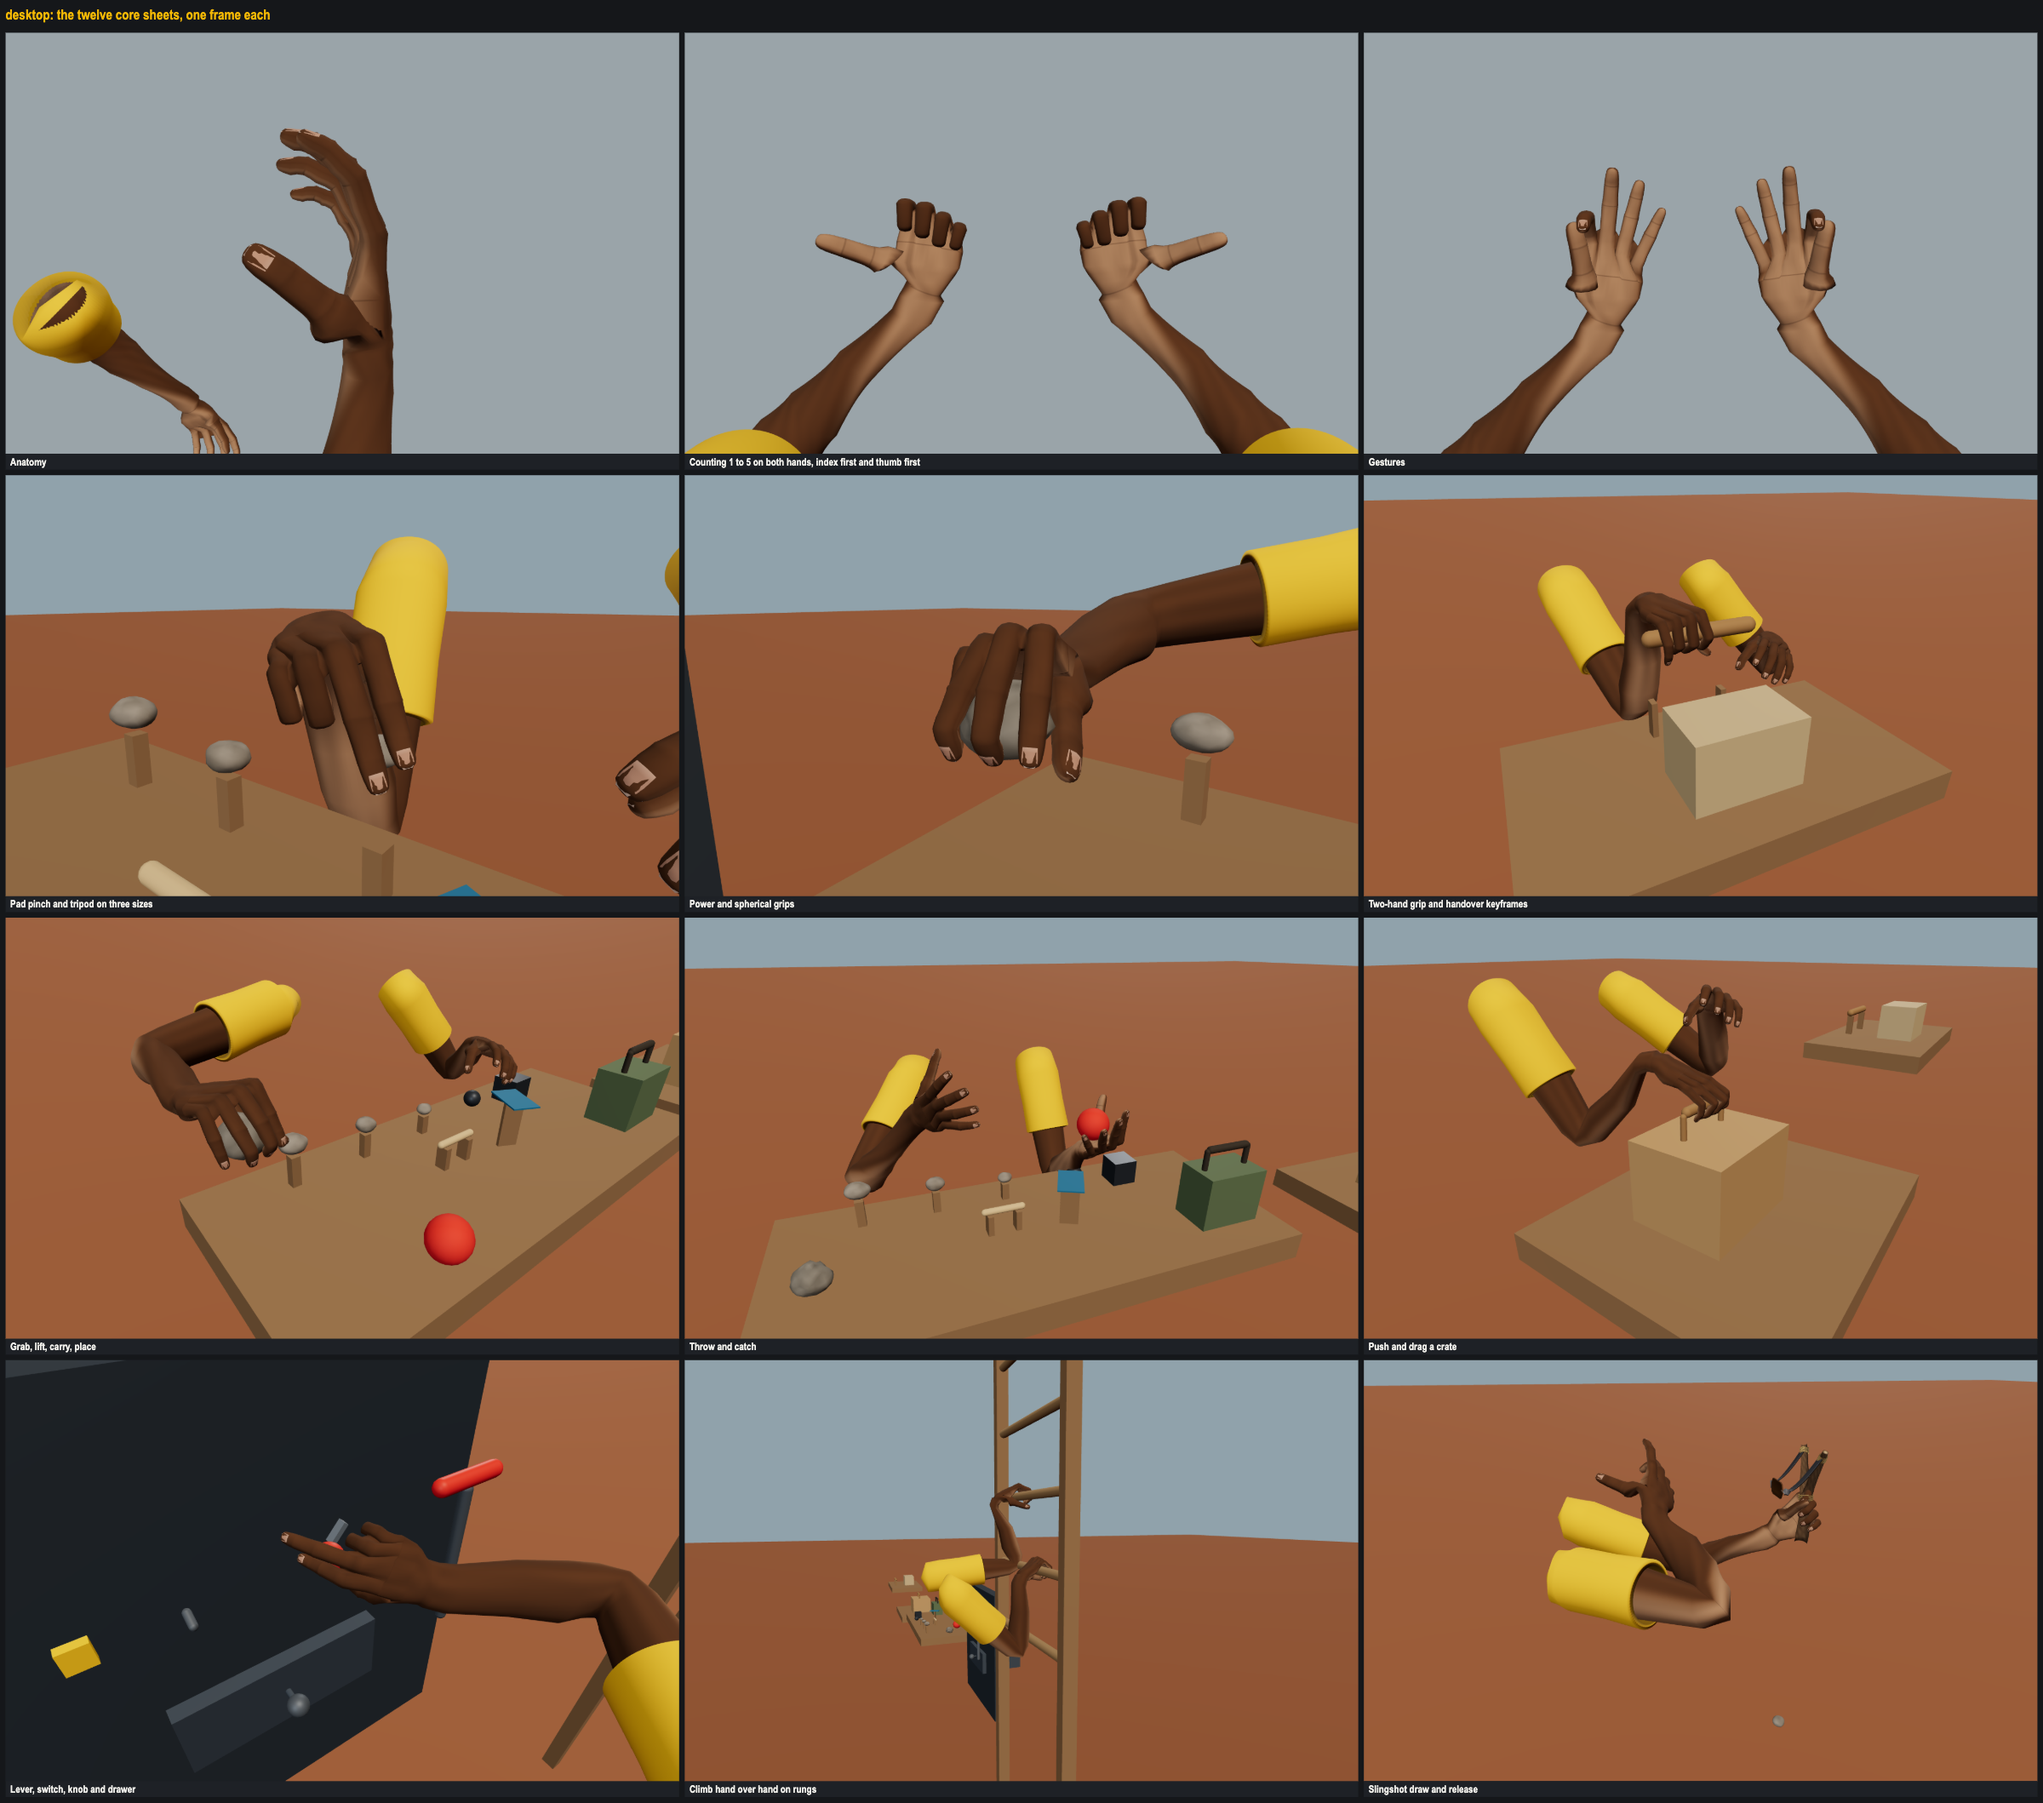
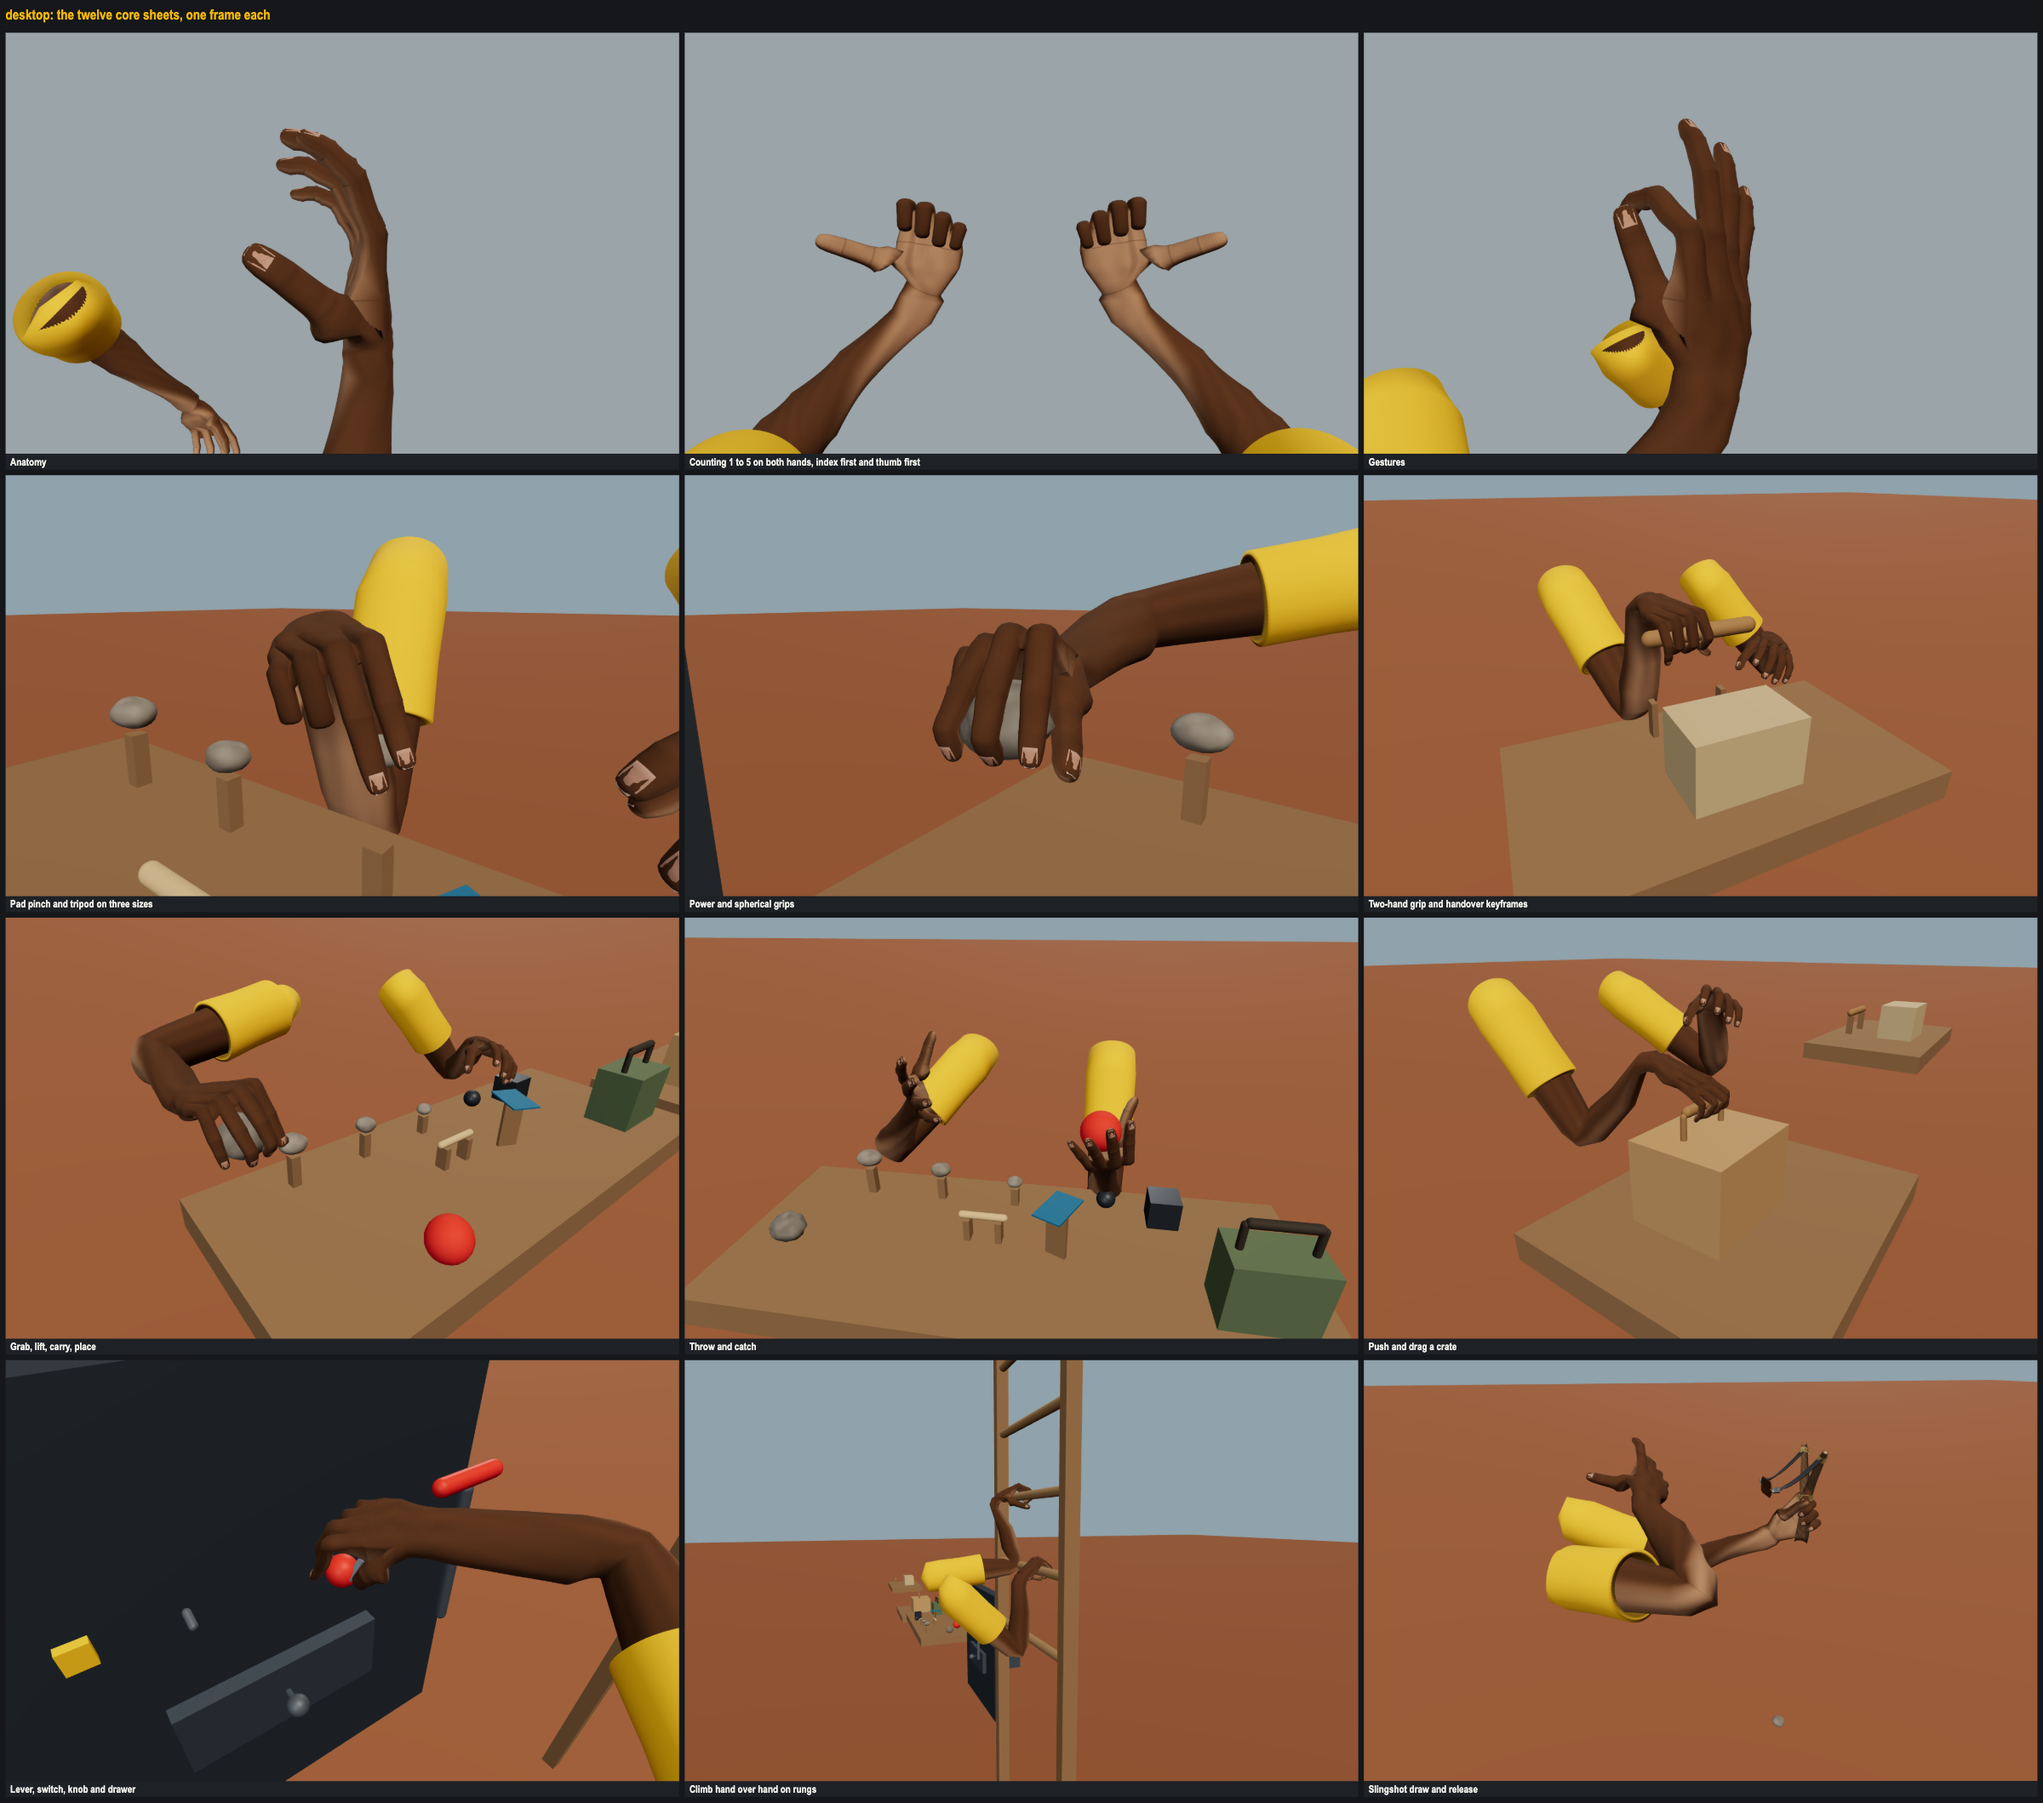
Fix the blockers from the independent core sheet review
- 03 gestures, ok: the ring hid behind the fingers from the front camera,
  so OK read as a pinch; that frame is a right hand at three-quarter.
- 08 throw and catch 2.85 to 4.40 s: the caught ball was set down between
  the iron shot and weight, and the hand read as wrapping into them. The
  catch point moves into the clear gap, the left hand holds the ball up
  after the catch instead of setting it down, and the camera looks from
  the front.
- 10 props, turnKnob 2.80 s: the tripod on a knob flush with the face
  left index and middle straight past it. The knob stands on a short stem
  so the fingers close round it.
- 12 slingshot, release 0.05 to 0.15 s: the release read as a pop; frames
  are 25 ms apart through the snap. The first person frames lined the
  drawing hand up with the fork and read as overlap; they are views from
  above showing the stretched bands and the snap back.
- docs/HANDS_MINORS.md gains the reviewer's cosmetic minors.

diff --git a/scripts/hands-gallery/sheets.js b/scripts/hands-gallery/sheets.js
@@ -31,7 +31,10 @@ export const CORE = [
   },
   {
     key: '03-gestures', title: 'Gestures: fist, open, spread, point, OK, thumbs up, V, beckon, wave',
-    frames: ['fist', 'open', 'spread', 'point', 'ok', 'thumbsUp', 'v', 'beckon', 'wave'].map((g) => hands(g, { hand: 'both', gesture: g, cam: 'front', t: ['beckon', 'wave'].includes(g) ? 0.6 : 0 })),
+    // OK from the front hides its ring behind the fingers: that one is a right hand at three-quarter.
+    frames: ['fist', 'open', 'spread', 'point', 'ok', 'thumbsUp', 'v', 'beckon', 'wave'].map((g) => (g === 'ok'
+      ? hands('ok, three-quarter', { hand: 'right', gesture: g, cam: 'three' })
+      : hands(g, { hand: 'both', gesture: g, cam: 'front', t: ['beckon', 'wave'].includes(g) ? 0.6 : 0 }))),
   },
   {
     key: '04-pinch-tripod', title: 'Pad pinch and tripod on three sizes',
@@ -59,10 +62,12 @@ export const CORE = [
   {
     key: '12-slingshot', title: 'Slingshot draw and release',
     frames: [
-      ...[0, 0.5, 1.0, 1.4].map((t) => ({ name: `draw ${t.toFixed(2)} s`, params: { scene: 'slingshot', action: 'draw', t, cam: 'orbit' } })),
-      ...[0.05, 0.15, 0.4, 1.0].map((t) => ({ name: `release ${t.toFixed(2)} s`, params: { scene: 'slingshot', action: 'release', t, cam: 'orbit' } })),
-      { name: 'full draw, first person', params: { scene: 'slingshot', action: 'fullDrawHold', t: 0.5, cam: 'fp' } },
-      { name: 'release, first person', params: { scene: 'slingshot', action: 'release', t: 0.1, cam: 'fp' } },
+      ...[0, 0.7, 1.4].map((t) => ({ name: `draw ${t.toFixed(2)} s`, params: { scene: 'slingshot', action: 'draw', t, cam: 'orbit' } })),
+      // The release is fast: frames 25 ms apart through the snap, so the strip shows it move, not jump.
+      ...[0.05, 0.075, 0.1, 0.125, 0.15, 0.4, 1.0].map((t) => ({ name: `release ${t.toFixed(3)} s`, params: { scene: 'slingshot', action: 'release', t, cam: 'orbit' } })),
+      // From above: first person lines the drawing hand up with the fork, so the draw reads as overlap there.
+      { name: 'full draw, from above', params: { scene: 'slingshot', action: 'fullDrawHold', t: 0.5, cam: 'orbit', yaw: 1.35, pitch: 1.1 } },
+      { name: 'release, from above', params: { scene: 'slingshot', action: 'release', t: 0.1, cam: 'orbit', yaw: 1.35, pitch: 1.1 } },
     ],
   },
 ];

diff --git a/app/scenes/sandbox-world.js b/app/scenes/sandbox-world.js
@@ -109,12 +109,14 @@ export function buildSandbox({ seed = 1 } = {}) {
     parts: [{ name: 'toggle', shape: 'capsule', r: 0.0055, h: 0.009, pos: [0, 0, 0.016] }],
   }));
   world.add(new Prop({
-    name: 'knob', type: 'hinge', anchor: [P + 0.08, -0.22, FACE + 0.02], axis: [0, 0, 1], min: -1.7, max: 1.7,
+    name: 'knob', type: 'hinge', anchor: [P + 0.08, -0.22, FACE + 0.035], axis: [0, 0, 1], min: -1.7, max: 1.7,
     inertia: 4e-4, damping: 0.02, friction: 0.03,
     parts: [
       { name: 'grip', shape: 'sphere', r: 0.021, pos: [0, 0, 0], strength: 0.6, stiffness: 2.5, driveDamping: 0.08 },
-      // A pointer fin against the face: a sphere alone shows no turn.
-      { name: 'pointer', shape: 'box', hx: 0.004, hy: 0.016, hz: 0.006, pos: [0, 0.032, -0.012], collide: false },
+      // The stem it stands on, clear of the face, so fingers close round it.
+      { name: 'stem', shape: 'capsule', r: 0.006, h: 0.02, pos: [0, 0, -0.022], collide: false },
+      // A pointer fin on its front: a sphere alone shows no turn.
+      { name: 'pointer', shape: 'box', hx: 0.004, hy: 0.014, hz: 0.004, pos: [0, 0.012, 0.018], collide: false },
     ],
   }));
   // Lever: pivot low on the right, the arm up, a ball grip on top; pulling

diff --git a/app/scenes/capabilities.js b/app/scenes/capabilities.js
@@ -260,8 +260,8 @@ export const SCENARIOS = {
     ],
   },
   throwCatch: {
-    label: 'Throw and catch', group: 'manipulation', station: 'ledge', duration: 5.4,
-    setup: (c) => { c.state.catchPoint = c.P(-0.2, -0.3, -0.33); },
+    label: 'Throw and catch', group: 'manipulation', station: 'ledge', duration: 4.8,
+    setup: (c) => { c.state.catchPoint = c.P(-0.09, -0.3, -0.31); },
     keys: [
       ...pick(0, 'right', (c) => c.body('ball'), 'spherical', DOWN, { lift: 0.08 }),
       // Turn palm up, ball cupped, and ready the catching hand.
@@ -271,8 +271,8 @@ export const SCENARIOS = {
       [2.2, aim('right', [-0.02, -0.16, -0.34], PALM_UP)],
       [2.32, (c) => { c.hands.release('right'); c.hands.planCatch('left', c.body('ball'), 'spherical', { hint: c.rot('left', ...PALM_UP), near: c.state.catchPoint }); }],
       [2.4, home('right')],
-      ...place(3.7, 'left', 'ball'),
-      [4.9, home('left')],
+      // Caught: the left hand brings the ball up and holds it, clear of the iron on the table.
+      [3.2, carryTo('left', [-0.1, -0.24, -0.3])],
     ],
   },
   slipHeavy: {

diff --git a/app/scenes/cameras.js b/app/scenes/cameras.js
@@ -28,7 +28,7 @@ const SCENARIO_VIEWS = {
   hook: { target: [-0.35, -0.38, -0.46], yaw: -2.5, pitch: 0.45, dist: 0.7 },
   slipHeavy: { target: [-0.25, -0.4, -0.33], yaw: -2.5, pitch: 0.45, dist: 0.6 },
   slipJerk: { target: [-0.17, -0.38, -0.3], yaw: -2.5, pitch: 0.45, dist: 0.6 },
-  throwCatch: { target: [0, -0.3, -0.36], yaw: 2.8, pitch: 0.4, dist: 0.9 },
+  throwCatch: { target: [0, -0.28, -0.34], yaw: 3.3, pitch: 0.45, dist: 0.8 },
   grabCarryPlace: { target: [0.28, -0.38, -0.36], yaw: 2.5, pitch: 0.5, dist: 0.7 },
   sphericalGrip: { target: [0.18, -0.4, -0.42], yaw: 2.5, pitch: 0.45, dist: 0.6 },
   pressButton: { target: [-0.2, -0.24, -0.42], yaw: -1.3, pitch: 0.25, dist: 0.5 },

diff --git a/docs/HANDS_MINORS.md b/docs/HANDS_MINORS.md
@@ -20,3 +20,15 @@ Cosmetic nits from the gallery review, not blocking this run. Each line names th
 - cap-inHandRoll (desktop): the near forearm crosses much of the frame during the roll.
 - 12 slingshot first person: the drawing hand's thumbnail is large and close in the release frame.
 - cap-hook, grips-hands-scene: the thumb rests straight up along the strap instead of relaxed.
+- 01 anatomy: a crease at the thumb base in the side and three-quarter views.
+- 02 counting: folded fingers read as dark stubs; the extended thumb is stiff and flat with a seam at its base.
+- 03 gestures: in thumbs up the thumb reads as a separate peg; beckon fingers are only half curled at the frame's moment.
+- 04 pinch and tripod: the stone is mostly hidden inside the hand in some frames; the three stone sizes are hard to tell apart at sheet scale.
+- 05 power and spherical: the folded forearm with a rounded elbow reads as a stump at powerGrip 1.60 s; a dark post crosses the left edge on wide screens.
+- 06 two-hand and handover: the right hand is mostly hidden behind the box at twoHand 2.50 s and 3.20 s.
+- 07 grab, carry, place: the lift is only just off the table; the strip ends before the release.
+- 08 throw and catch: the ball is in the air for only about two frames of the strip.
+- 09 push and drag: the pushing hand is seen edge on, its fingertips standing above the crate outline; the idle hand stays curled against its sleeve.
+- 10 props: the switch toggle's change of state is small at sheet scale.
+- 11 climb: the sleeve top looks crumpled when it turns upright at 9.30 s.
+- 12 slingshot: the stone stays on the ground, so the pouch is drawn empty; the fork turns a lot at release 1.00 s.
